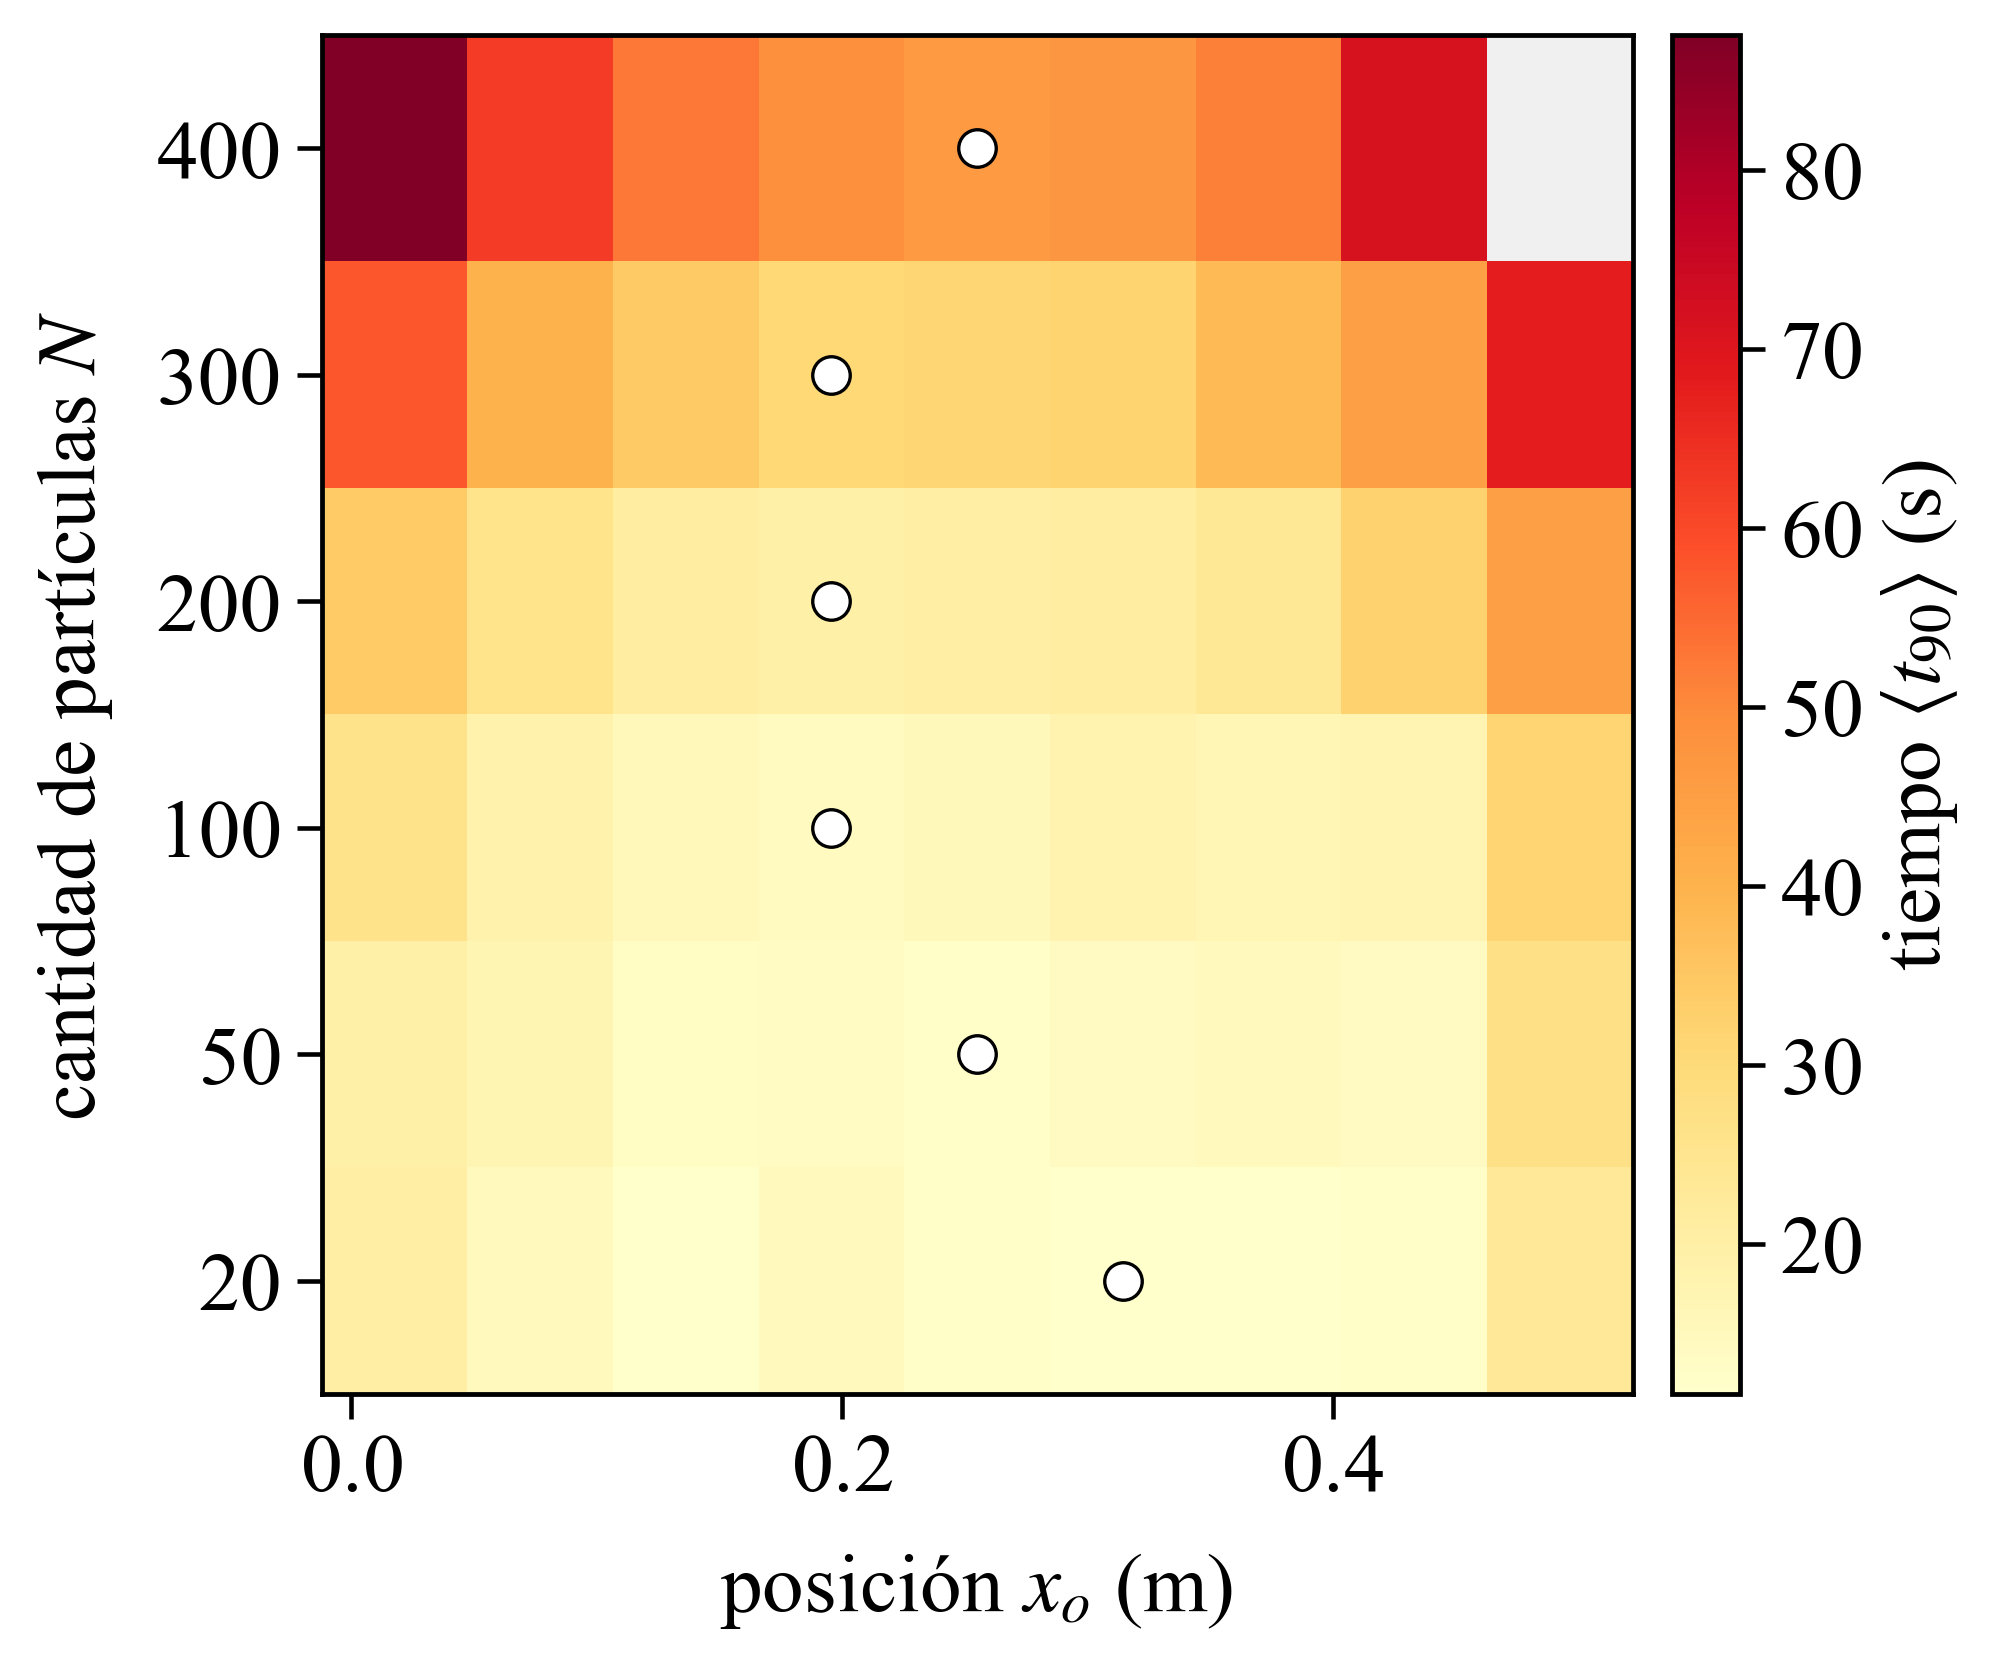
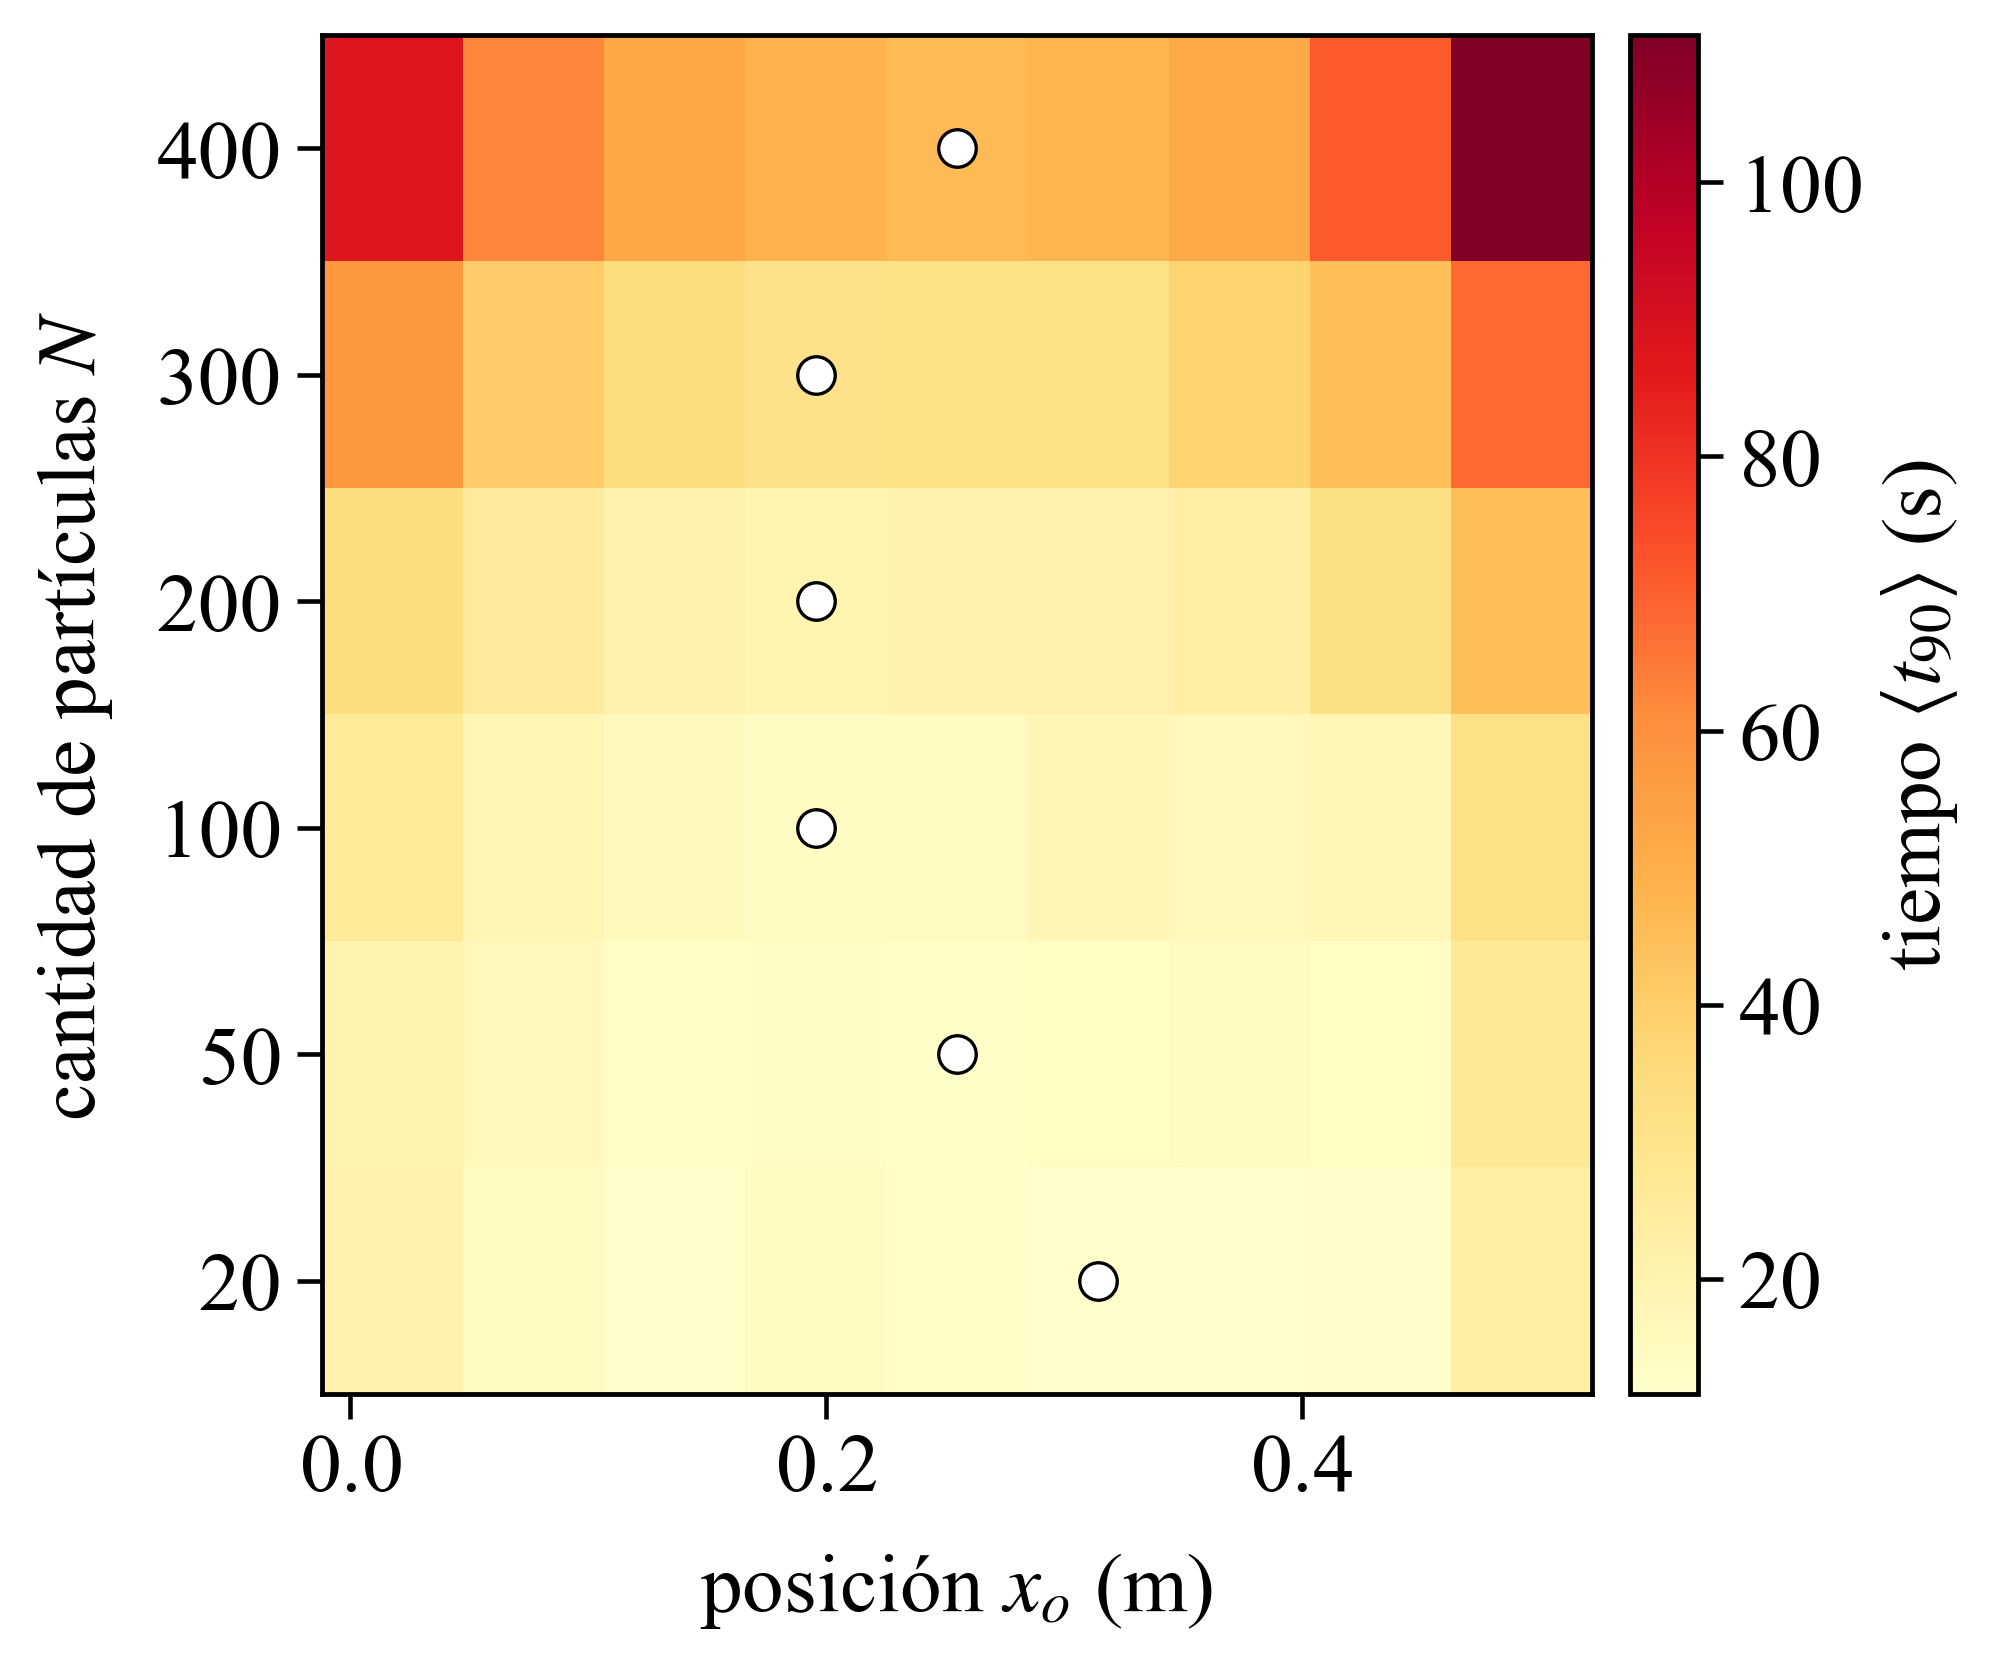
Updated 2.4b

diff --git a/scripts/run_24b.py b/scripts/run_24b.py
@@ -13,8 +13,10 @@ from traj import read_nu_series
 EXE = ROOT / "build-local" / "TimeDrivenSim.exe"
 DT_FILE = ROOT / "docs" / "results" / "2.1" / "dt.txt"
 FIGS = ROOT / "docs" / "results" / "2.4"
-WORK = Path(os.environ.get("TEMP", "/tmp")) / "tp4_24b_consigna"
-PREV = Path(os.environ.get("TEMP", "/tmp")) / "tp4_22_consigna"
+TEMP = Path(os.environ.get("TEMP", "/tmp"))
+WORK = TEMP / "tp4_24b_consigna"
+PREV = TEMP / "tp4_22_consigna"
+FROM_24A = TEMP / "tp4_24_event"
 OUT = WORK
 
 R = 0.51
@@ -22,7 +24,7 @@ r = 0.0175
 XO_MIN = r
 XO_MAX = R - r
 N_XO = 9
-TMAX = 100.0
+TF = 2000.0
 DT2 = 0.05
 REPS = 5
 SEEDS = list(range(1, REPS + 1))
@@ -62,21 +64,26 @@ def dump_dir(root: Path, n: int, xo: float) -> Path:
     return root / "dumps" / f"N{n}" / f"xo{xo_tag(xo)}"
 
 
-def dump_complete(path: Path, n: int) -> bool:
+def has_t90(path: Path, n: int) -> bool:
     if not path.is_file() or path.stat().st_size == 0:
         return False
     try:
         N, series = read_nu_series(path)
     except (OSError, ValueError):
         return False
-    return N == n and series[-1][0] + 1e-12 >= TMAX
+    return N == n and t90_of_nu(n, series) is not None
 
 
 def locate_dump(n: int, xo: float, seed: int) -> Path | None:
     name = f"run_{seed}.txt"
-    for root in (OUT, PREV):
-        path = dump_dir(root, n, xo) / name
-        if dump_complete(path, n):
+    candidates = [
+        dump_dir(OUT, n, xo) / name,
+        dump_dir(PREV, n, xo) / name,
+    ]
+    if abs(xo - XO_MIN) < 1e-9:
+        candidates.append(FROM_24A / "dumps" / f"N{n}" / name)
+    for path in candidates:
+        if has_t90(path, n):
             return path
     return None
 
@@ -103,63 +110,55 @@ def simulate(n: int, xo: float, seed: int, dt: float) -> Path:
             "-dt",
             f"{dt:.10g}",
             "-tf",
-            str(TMAX),
+            str(TF),
+            "--until-used",
             "-n",
             str(save_stride(dt)),
             "--out",
             str(path),
         ]
     )
+    N, series = read_nu_series(path)
+    if N != n or t90_of_nu(n, series) is None:
+        raise RuntimeError(f"{path}: Nu={series[-1][1]} did not reach t90")
     return path
 
 
-def summarize(n: int, xo: float, paths: list[Path]) -> dict[str, float | int | None]:
+def summarize(n: int, xo: float, paths: list[Path]) -> dict[str, float | int]:
     t90s: list[float] = []
-    fu_end: list[float] = []
     for path in paths:
         N, series = read_nu_series(path)
         if N != n:
             raise RuntimeError(f"{path}: N={N}, expected {n}")
-        t_last, nu_last = series[-1]
-        fu_end.append(nu_last / n)
         t90 = t90_of_nu(n, series)
-        if t90 is not None:
-            t90s.append(t90)
-    fu_mean, fu_std = mean_std(fu_end)
-    row: dict[str, float | int | None] = {
+        if t90 is None:
+            raise RuntimeError(f"{path}: Nu={series[-1][1]} did not reach t90")
+        t90s.append(t90)
+    mean, std = mean_std(t90s)
+    return {
         "N": n,
         "xo": xo,
         "n_reached": len(t90s),
         "n_total": len(paths),
-        "fu_tmax_mean": fu_mean,
-        "fu_tmax_std": fu_std,
-        "t90_mean": None,
-        "t90_std": None,
+        "t90_mean": mean,
+        "t90_std": std,
     }
-    if len(t90s) == len(paths):
-        mean, std = mean_std(t90s)
-        row["t90_mean"] = mean
-        row["t90_std"] = std
-    return row
 
 
-def write_grid(path: Path, rows: list[dict[str, float | int | None]]) -> None:
+def write_grid(path: Path, rows: list[dict[str, float | int]]) -> None:
     with path.open("w", encoding="utf-8") as fh:
-        fh.write("N xo t90_mean t90_std n_reached n_total fu_tmax_mean fu_tmax_std\n")
+        fh.write("N xo t90_mean t90_std n_reached n_total\n")
         for row in rows:
-            t90_mean = "nan" if row["t90_mean"] is None else f"{row['t90_mean']:.8g}"
-            t90_std = "nan" if row["t90_std"] is None else f"{row['t90_std']:.8g}"
             fh.write(
-                f"{row['N']} {row['xo']:.10g} {t90_mean} {t90_std} "
-                f"{row['n_reached']} {row['n_total']} "
-                f"{row['fu_tmax_mean']:.8g} {row['fu_tmax_std']:.8g}\n"
+                f"{row['N']} {row['xo']:.10g} {row['t90_mean']:.8g} {row['t90_std']:.8g} "
+                f"{row['n_reached']} {row['n_total']}\n"
             )
 
 
-def write_optima(path: Path, rows: list[dict[str, float | int | None]]) -> None:
-    by_n: dict[int, list[dict[str, float | int | None]]] = {}
+def write_optima(path: Path, rows: list[dict[str, float | int]]) -> None:
+    by_n: dict[int, list[dict[str, float | int]]] = {}
     for row in rows:
-        if row["t90_mean"] is None or row["n_reached"] != row["n_total"]:
+        if row["n_reached"] != row["n_total"]:
             continue
         by_n.setdefault(int(row["N"]), []).append(row)
     with path.open("w", encoding="utf-8") as fh:
@@ -191,18 +190,21 @@ def main() -> None:
     print(f"dt={dt:g} from {DT_FILE}", flush=True)
     OUT.mkdir(parents=True, exist_ok=True)
     values = xo_values()
-    rows: list[dict[str, float | int | None]] = []
+    rows: list[dict[str, float | int]] = []
     for n in N_VALUES:
         for xo in values:
             paths: list[Path] = []
             for seed in SEEDS:
-                print(f"2.4b N={n} xo={xo:.6g} seed={seed}", flush=True)
+                found = locate_dump(n, xo, seed)
+                if found is None:
+                    print(f"2.4b N={n} xo={xo:.6g} seed={seed} run", flush=True)
+                else:
+                    print(f"2.4b N={n} xo={xo:.6g} seed={seed} reuse", flush=True)
                 paths.append(simulate(n, xo, seed, dt))
             row = summarize(n, xo, paths)
             rows.append(row)
-            t90 = "nan" if row["t90_mean"] is None else f"{row['t90_mean']:.3f}s"
             print(
-                f"  <t90>={t90} ({row['n_reached']}/{row['n_total']})  Fu(tmax)={row['fu_tmax_mean']:.3f}",
+                f"  <t90>={row['t90_mean']:.3f}s ({row['n_reached']}/{row['n_total']})",
                 flush=True,
             )
     grid = OUT / "heatmap_t90.txt"
